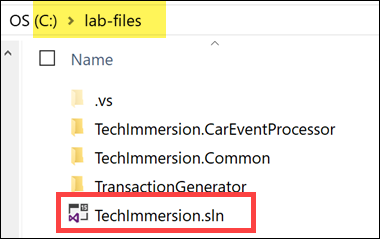
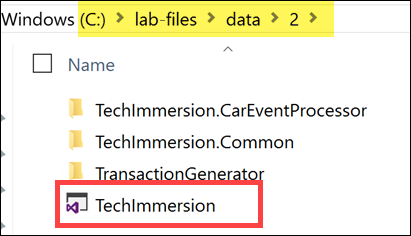
Updated solution path

diff --git a/day1-exp2/README.md b/day1-exp2/README.md
@@ -440,7 +440,7 @@ In this task, you will configure the Function App with the Azure Cosmos DB and E
 
 7.  Select **Add new setting** underneath the new application setting you just added to add a new one.
 
-8.  Enter **EventHubsConnectionString** into the **Name** field, then paste your Event Hubs connection string into the **Value** field. If you cannot locate your connection string, refer to Task 2, step 17.
+8.  Enter **EventHubsConnectionString** into the **Name** field, then paste your Event Hubs connection string into the **Value** field. This is the connection string for the **Write** shared access policy you created. If you cannot locate your connection string, refer to Task 2, step 17.
 
     ![The EventHubsConnectionString name and value pair has been added and is highlighted.](media/function-app-app-settings-event-hubs.png 'Application settings')
 
@@ -454,7 +454,7 @@ The data generator console application creates and sends simulated vehicle senso
 
 In this task, you will open the lab solution in Visual Studio, publish the Function App, and configure and run the data generator. The data generator saves simulated vehicle telemetry data to Cosmos DB, which triggers the Azure function to run and process the data, sending it to Event Hubs, prompting your Stream Analytics job to aggregate and analyze the enriched data and send it to Power BI. The final step will be to create the Power BI report in the task that follows.
 
-1.  Open Windows Explorer and navigate to `C:\lab-files`. Double-click on **TechImmersion.sln** to open the solution in Visual Studio. If you are prompted by Visual Studio to log in, log in with your Azure credentials you are using for this lab.
+1.  Open Windows Explorer and navigate to `C:\lab-files\data\2`. Double-click on **TechImmersion.sln** to open the solution in Visual Studio. If you are prompted by Visual Studio to log in, log in with your Azure credentials you are using for this lab.
 
     ![The TechImmersion.sln file is highlighted in the C:\tech-immersion folder.](media/vs-solution.png 'Windows explorer')
 
